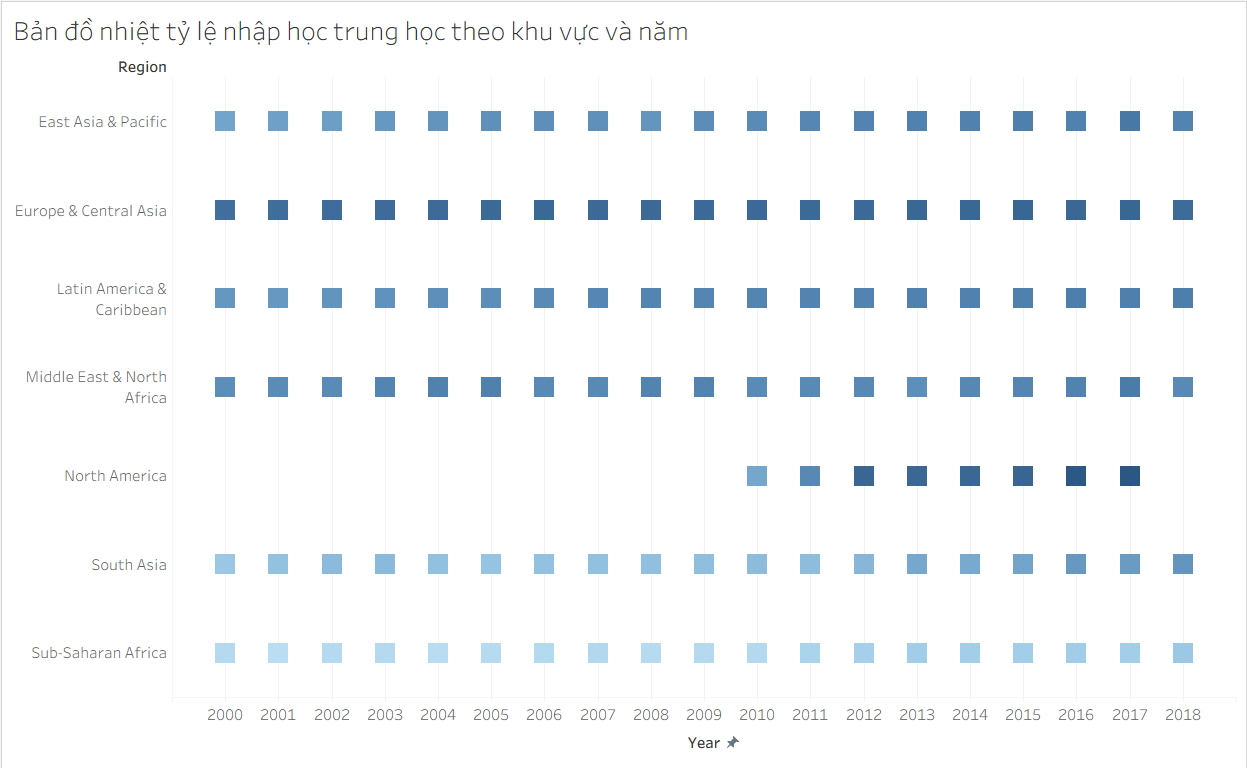
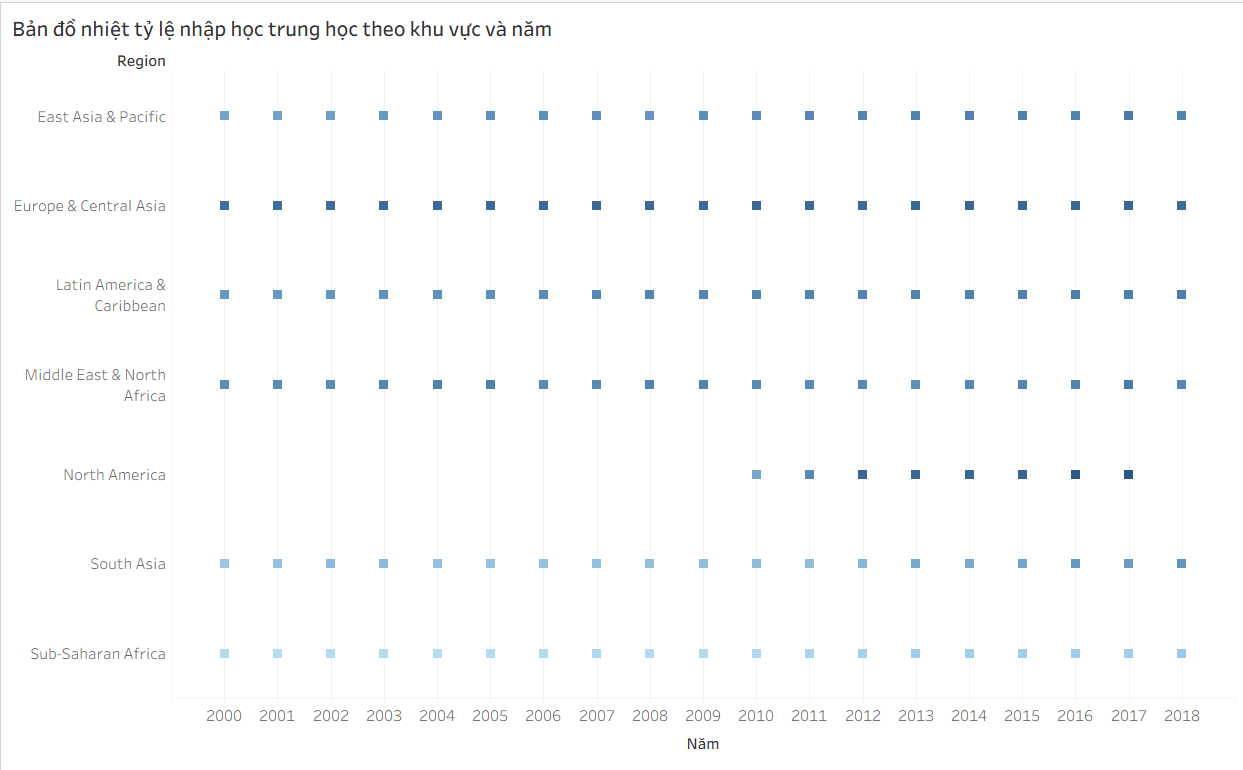
complete 4 parts and prepare to performs dashboard screenshot in report

diff --git a/report/sections/06_phan_tich_moi_truong.tex b/report/sections/06_phan_tich_moi_truong.tex
@@ -8,7 +8,7 @@ Phần phân tích môi trường và biến đổi khí hậu đóng vai trò k
 
 Phần phân tích môi trường tập trung vào bốn câu hỏi chính:
 \begin{enumerate}
-    \item Xu hướng tổng lượng phát thải CO\textsubscript{2} toàn cầu thay đổi ra sao theo thời gian? Đóng góp của các vùng địa lý thay đổi như thế nào trong giai đoạn 2000--2020?
+    \item Xu hướng tổng lượng phát thải CO\textsubscript{2} toàn cầu thay đổi ra sao theo thời gian? Đóng góp của các vùng địa lý thay đổi như thế nào trong giai đoạn 2000--2023?
     \item Mức phát thải CO\textsubscript{2} bình quân đầu người phân bố thế nào trên bản đồ địa lý? Sự phân hóa này phản ánh bất bình đẳng phát triển ra sao?
     \item Tỷ trọng tiêu thụ năng lượng tái tạo thay đổi thế nào giữa các khu vực địa lý qua hai mốc thời gian 2000 và 2021?
     \item Xu hướng biến động diện tích rừng phản ánh áp lực phát triển lên tài nguyên tự nhiên ở các khu vực và quốc gia ra sao từ 2000 đến 2023?
@@ -54,28 +54,28 @@ Dữ liệu môi trường được lọc từ file gốc \texttt{WDIEXCEL.xlsx}
 \textbf{Loại biểu đồ:} Biểu đồ miền chồng (stacked area chart).\\
 \textbf{Lý do chọn:} Biểu đồ miền chồng rất thích hợp để thể hiện sự thay đổi của một đại lượng tổng (tổng phát thải CO\textsubscript{2} toàn cầu) theo thời gian, đồng thời mô tả rõ cấu trúc đóng góp của các thực thể cấu thành (ở đây là các khu vực địa lý) trên cùng một trục trực quan.
 
-\reportfigure{images/environment/environment_co2_trend.png}{Xu hướng tổng phát thải CO\textsubscript{2} toàn cầu phân rã theo 7 khu vực địa lý, giai đoạn 2000--2020 (đơn vị: triệu tấn CO\textsubscript{2} tương đương - Mt CO\textsubscript{2}e).}{fig:env-co2-trend}
+\reportfigure{images/environment/co2_trend_area_chart.png}{Xu hướng tổng phát thải CO\textsubscript{2} theo khu vực, giai đoạn 2000--2023. Trục tung biểu diễn lượng phát thải theo Mt CO\textsubscript{2}e; các lớp màu chồng lên nhau thể hiện đóng góp tương đối của từng khu vực trong tổng phát thải.}{fig:env-co2-trend}
 
 \textbf{Nhận xét:}
 \begin{itemize}
-    \item \textbf{Xu hướng tăng toàn cầu:} Tổng phát thải CO\textsubscript{2} toàn cầu tăng liên tục trong giai đoạn 2000--2019. Năm 2020 ghi nhận sự sụt giảm nhẹ (khoảng 4--5\% ở nhiều vùng) do tác động của phong tỏa diện rộng trong đại dịch COVID-19 làm ngưng trệ các hoạt động giao thông và sản xuất công nghiệp toàn cầu.
-    \item \textbf{Sự bùng nổ của East Asia \& Pacific:} Khu vực Đông Á \& Thái Bình Dương có lượng phát thải tăng vọt đáng kinh ngạc, từ \textbf{6.681 Mt CO\textsubscript{2}e} năm 2000 lên \textbf{12.746 Mt CO\textsubscript{2}e} năm 2010, và đạt \textbf{15.959 Mt CO\textsubscript{2}e} năm 2020 (tăng gấp 2,4 lần). Sự bùng nổ này chủ yếu được thúc đẩy bởi sự trỗi dậy của các nền kinh tế đang phát triển nhanh, dẫn đầu là Trung Quốc với cơ cấu năng lượng phụ thuộc nhiều vào than đá.
-    \item \textbf{Sự suy giảm ở các khu vực phát triển:} Trái lại, phát thải ở các nước phát triển có xu hướng đạt đỉnh và giảm dần. Bắc Mỹ (\textbf{North America}) giảm từ \textbf{6.472 Mt CO\textsubscript{2}e} (2000) xuống còn \textbf{5.015 Mt CO\textsubscript{2}e} (2020) (giảm 22,5\%). Tương tự, Châu Âu \& Trung Á (\textbf{Europe \& Central Asia}) giảm từ \textbf{6.906 Mt CO\textsubscript{2}e} xuống còn \textbf{6.047 Mt CO\textsubscript{2}e}. Sự sụt giảm này phản ánh nỗ lực chuyển dịch cơ cấu kinh tế sang dịch vụ, sử dụng năng lượng hiệu quả hơn và áp dụng các chính sách cam kết giảm phát thải mạnh mẽ.
-    \item \textbf{Sự gia tăng ở các vùng đang phát triển khác:} Nam Á (\textbf{South Asia}) tăng hơn gấp đôi từ \textbf{1.039 Mt CO\textsubscript{2}e} lên \textbf{2.502 Mt CO\textsubscript{2}e}, cho thấy quá trình công nghiệp hóa và đô thị hóa đang làm gia tăng nhanh chóng nhu cầu sử dụng năng lượng hóa thạch tại đây.
+    \item \textbf{Tổng phát thải tăng rõ rệt:} Dựa trên trục tung của biểu đồ, tổng phát thải tăng từ khoảng 24--25K Mt CO\textsubscript{2}e năm 2000 lên khoảng 37--38K Mt CO\textsubscript{2}e năm 2023. Đường bao phía trên của biểu đồ đi lên gần như liên tục, cho thấy áp lực phát thải toàn cầu chưa có dấu hiệu đảo chiều bền vững.
+    \item \textbf{Điểm giảm tạm thời:} Trên hình có một nhịp giảm rõ ở năm 2020, khi tổng phát thải lùi từ khoảng trên 36K xuống gần 35K Mt CO\textsubscript{2}e. Tuy nhiên, từ năm 2021 đến 2023, diện tích miền lại mở rộng nhanh, cho thấy mức phát thải phục hồi sau cú sốc ngắn hạn.
+    \item \textbf{Đóng góp tăng mạnh nhất nằm ở lớp màu xanh phía trên:} Lớp màu xanh trên cùng mở rộng rất mạnh từ sau năm 2003 và chiếm phần lớn mức tăng thêm của toàn biểu đồ. Vì hình chụp không hiển thị legend khu vực, báo cáo chỉ diễn giải theo phần diện tích màu quan sát được thay vì gán chắc chắn cho một khu vực cụ thể.
+    \item \textbf{Các lớp phía dưới tăng chậm hơn:} Một số lớp màu ở đáy biểu đồ chỉ dày lên nhẹ hoặc gần như ổn định. Điều này cho thấy tăng trưởng phát thải không phân bổ đều giữa các khu vực; một vài nhóm khu vực lớn đang quyết định phần lớn biến động tổng phát thải.
 \end{itemize}
 
 \subsubsection{Biểu đồ 2 --- Bản đồ phát thải CO\textsubscript{2} bình quân đầu người (Choropleth Map)}
 
 \textbf{Loại biểu đồ:} Bản đồ phân bố (choropleth map).\\
-\textbf{Lý do chọn:} Bản đồ phân bố địa lý giúp nhận diện trực quan mức độ tập trung phát thải và bất bình đẳng dấu chân carbon giữa các quốc gia. Sử dụng thang màu chuyển sắc từ lam (phát thải thấp) sang cam/đỏ (phát thải cao) giúp người xem nhận biết ngay lập tức các vùng có mức phát thải bình quân đầu người cao bất thường.
+\textbf{Lý do chọn:} Bản đồ phân bố địa lý giúp nhận diện trực quan mức độ tập trung phát thải và bất bình đẳng dấu chân carbon giữa các quốc gia. Thang màu xanh đậm--nhạt trên bản đồ hỗ trợ so sánh tương đối giữa các vùng địa lý, dù không cung cấp nhãn số trực tiếp cho từng quốc gia trong hình chụp.
 
-\reportfigure{images/environment/environment_co2_map.png}{Bản đồ phát thải CO\textsubscript{2} bình quân đầu người của các quốc gia năm 2020 (tấn CO\textsubscript{2}e/người).}{fig:env-co2-map}
+\reportfigure{images/environment/co2_per_capita_map.png}{Bản đồ phát thải CO\textsubscript{2} bình quân đầu người theo quốc gia. Màu xanh đậm hơn thể hiện mức phát thải bình quân đầu người cao hơn; góc phải dưới có ghi chú \textit{2 unknown} cho biết còn hai bản ghi chưa khớp được với bản đồ.}{fig:env-co2-map}
 
 \textbf{Nhận xét:}
 \begin{itemize}
-    \item \textbf{Phân hóa rõ rệt:} Bản đồ bộc lộ sự bất bình đẳng khí hậu sâu sắc. Các quốc gia phát triển ở Bắc Mỹ (\textbf{North America} có mức trung bình \textbf{10,4 t/người} năm 2020) và các quốc gia giàu tài nguyên dầu mỏ ở Trung Đông và Bắc Phi (\textbf{MENA} trung bình \textbf{8,8 t/người} năm 2020) là những vùng có màu sắc đậm nhất. Ví dụ, Hoa Kỳ phát thải tới \textbf{13,47 t/người} năm 2020.
-    \item \textbf{Dấu chân carbon thấp ở nhóm thu nhập thấp:} Ngược lại, các quốc gia ở Châu Phi hạ Sahara (\textbf{Sub-Saharan Africa} trung bình ổn định ở mức chỉ \textbf{0,93 t/người}) và Nam Á (\textbf{South Asia} trung bình \textbf{1,36 t/người} năm 2020) có màu lam rất nhạt, phản ánh mức tiêu thụ năng lượng và quy mô công nghiệp rất thấp trên đầu người.
-    \item \textbf{Xu hướng các quốc gia cụ thể:} Hoa Kỳ dù vẫn ở mức rất cao nhưng đã giảm đáng kể so với mức cực thịnh \textbf{21,01 t/người} năm 2000. Ngược lại, Việt Nam tăng nhanh từ \textbf{0,73 t/người} (2000) lên \textbf{3,55 t/người} (2020), phản ánh rõ quá trình công nghiệp hóa chuyển đổi từ nông nghiệp truyền thống sang sản xuất công nghiệp nặng và phát triển hạ tầng năng lượng.
+    \item \textbf{Phân bố phát thải không đồng đều theo không gian:} Trên bản đồ, Bắc Mỹ, một phần châu Âu, Nga, Australia và một số khu vực ở Trung Đông có sắc xanh đậm hơn nhiều vùng khác. Điều này cho thấy mức phát thải bình quân đầu người ở các khu vực công nghiệp hóa hoặc phụ thuộc nhiều vào năng lượng hóa thạch có xu hướng cao hơn.
+    \item \textbf{Nhiều khu vực đang phát triển có màu nhạt hơn:} Phần lớn châu Phi, Nam Á và một số nước Đông Nam Á có màu xanh nhạt hơn trên hình. Do bản đồ không hiển thị nhãn số, nhận xét này nên được hiểu là so sánh tương đối bằng màu sắc, không phải kết luận thứ hạng tuyệt đối của từng quốc gia.
+    \item \textbf{Cần lưu ý dữ liệu không khớp bản đồ:} Ghi chú \textit{2 unknown} ở góc phải dưới cho thấy còn hai bản ghi chưa được Tableau nhận diện địa lý. Vì vậy, bản đồ phù hợp nhất để nhìn xu hướng không gian tổng quát, còn các kết luận định lượng chi tiết cần tránh đưa vào phần nhận xét hình.
 \end{itemize}
 
 \subsubsection{Biểu đồ 3 --- Tiêu thụ năng lượng tái tạo theo khu vực (Grouped Bar Chart)}
@@ -83,13 +83,13 @@ Dữ liệu môi trường được lọc từ file gốc \texttt{WDIEXCEL.xlsx}
 \textbf{Loại biểu đồ:} Biểu đồ cột nhóm (grouped bar chart).\\
 \textbf{Lý do chọn:} Thích hợp để so sánh giá trị định lượng giữa các đối tượng phân loại (các khu vực địa lý) và đồng thời theo dõi sự thay đổi của từng đối tượng qua hai thời điểm cụ thể (năm 2000 và năm 2021).
 
-\reportfigure{images/environment/environment_renewable_bar.png}{So sánh tỷ lệ tiêu thụ năng lượng tái tạo trung bình theo khu vực địa lý giữa hai năm 2000 và 2021 (đơn vị: \% tổng tiêu thụ năng lượng cuối cùng).}{fig:env-renew-bar}
+\reportfigure{images/environment/renewable_energy_bar_chart.png}{So sánh tỷ lệ tiêu thụ năng lượng tái tạo trung bình theo khu vực địa lý giữa hai năm 2000 và 2021 (đơn vị: \% tổng tiêu thụ năng lượng cuối cùng). Các giá trị phần trăm được hiển thị trực tiếp trên từng cột trong biểu đồ.}{fig:env-renew-bar}
 
 \textbf{Nhận xét:}
 \begin{itemize}
-    \item \textbf{Hiện trạng đặc thù của Châu Phi:} \textbf{Sub-Saharan Africa} luôn dẫn đầu về tỷ lệ năng lượng tái tạo (\textbf{71,2\%} năm 2000 và \textbf{61,4\%} năm 2021). Tuy nhiên, giá trị này chủ yếu phản ánh việc sử dụng sinh khối truyền thống (đốt gỗ, chất thải nông nghiệp để đun nấu) ở nông thôn thiếu điện, chứ không phải các nguồn điện sạch hiện đại. Sự sụt giảm của tỷ lệ này (giảm 9,8\%) phản ánh quá trình đô thị hóa và thay thế nhiên liệu truyền thống bằng điện lưới hóa thạch hoặc khí hóa lỏng.
-    \item \textbf{Nỗ lực chuyển dịch xanh của Châu Âu:} Châu Âu \& Trung Á (\textbf{Europe \& Central Asia}) là khu vực điển hình ghi nhận mức tăng đáng kể từ \textbf{16,4\%} (2000) lên \textbf{23,3\%} (2021), thể hiện rõ kết quả của các chính sách chuyển dịch xanh mạnh mẽ như tại Đức (tăng từ \textbf{3,7\%} lên \textbf{18,5\%} trong cùng giai đoạn).
-    \item \textbf{Áp lực tăng trưởng đè nặng lên năng lượng sạch:} Khu vực Đông Á \& Thái Bình Dương (\textbf{East Asia \& Pacific}) giảm từ \textbf{24,1\%} xuống còn \textbf{17,8\%}, cho thấy tốc độ tăng trưởng kinh tế nhanh đã làm gia tăng nhu cầu năng lượng hóa thạch vượt trội so với tốc độ xây dựng các nguồn năng lượng tái tạo mới.
+    \item \textbf{Hai khu vực có tỷ trọng cao nhất đều giảm:} Sub-Saharan Africa giảm từ 71,2\% năm 2000 xuống 61,4\% năm 2021; South Asia giảm mạnh hơn, từ 58,9\% xuống 44,3\%. Dù vẫn thuộc nhóm cao, chiều giảm cho thấy tỷ trọng năng lượng tái tạo bị thu hẹp tương đối so với tổng tiêu thụ năng lượng.
+    \item \textbf{Một số khu vực tăng tỷ trọng năng lượng tái tạo:} Europe \& Central Asia tăng từ 16,4\% lên 23,3\%; North America tăng từ 8,7\% lên 11,9\%. Đây là hai nhóm thể hiện xu hướng cải thiện rõ nhất trên biểu đồ.
+    \item \textbf{Các khu vực còn lại biến động trái chiều:} Latin America \& Caribbean giảm nhẹ từ 23,4\% xuống 20,0\%; East Asia \& Pacific giảm từ 24,1\% xuống 17,8\%; Middle East \& North Africa giảm nhẹ từ 8,8\% xuống 7,7\%. Nhìn chung, biểu đồ cho thấy chuyển dịch năng lượng xanh chưa đồng đều giữa các khu vực.
 \end{itemize}
 
 \subsubsection{Biểu đồ 4 --- Biến động diện tích rừng của các quốc gia (Heatmap)}
@@ -97,22 +97,24 @@ Dữ liệu môi trường được lọc từ file gốc \texttt{WDIEXCEL.xlsx}
 \textbf{Loại biểu đồ:} Bản đồ nhiệt dạng ma trận (heatmap).\\
 \textbf{Lý do chọn:} Heatmap giúp hiển thị ma trận hai chiều (quốc gia $\times$ năm) một cách trực quan, sử dụng mức độ đậm nhạt của màu sắc (ở đây là sắc xanh lá cây) để phản ánh tỷ lệ phủ xanh, từ đó dễ dàng nhận diện xu hướng suy giảm diện tích rừng (màu xanh nhạt dần) hoặc phục hồi rừng (màu xanh đậm lên) qua từng năm.
 
-\reportfigure{images/environment/environment_forest_heatmap.png}{Heatmap thể hiện biến động tỷ lệ diện tích rừng (\%) của một số quốc gia đại diện trong giai đoạn 2000--2023. Mỗi dòng đại diện cho một quốc gia; màu xanh đậm biểu thị tỷ lệ che phủ cao.}{fig:env-forest-heatmap}
+\reportfigure{images/environment/forest_area_heatmap.png}{Heatmap thể hiện tỷ lệ diện tích rừng của 20 quốc gia có biến động lớn trong giai đoạn 2000--2023. Ảnh chụp đang hiển thị phần năm 2000--2018; thanh cuộn ngang phía dưới cho thấy còn các năm tiếp theo ở phần bên phải của worksheet.}{fig:env-forest-heatmap}
 
 \textbf{Nhận xét:}
 \begin{itemize}
-    \item \textbf{Nạn phá rừng nghiêm trọng ở Nam Mỹ:} Khu vực Mỹ Latinh \& Caribbean (\textbf{Latin America \& Caribbean}) có độ phủ rừng trung bình giảm mạnh từ \textbf{44,8\%} (2000) xuống còn \textbf{40,7\%} (2023). Minh chứng rõ nhất là Brazil (quốc gia sở hữu rừng Amazon) với diện tích rừng giảm liên tục từ \textbf{65,9\%} xuống còn \textbf{59,4\%}, phản ánh tình trạng phá rừng để lấy đất làm nông nghiệp, chăn nuôi gia súc và khai khoáng quy mô lớn.
-    \item \textbf{Tín hiệu phục hồi tích cực ở Đông Á:} Trái lại, một số quốc gia ghi nhận nỗ lực phục hồi rừng ấn tượng. Trung Quốc tăng từ \textbf{18,9\%} (2000) lên \textbf{23,4\%} (2023), và Việt Nam tăng từ \textbf{37,9\%} lên \textbf{46,7\%} (trong giai đoạn 2000--2020). Thành quả này đạt được nhờ các chương trình trồng rừng phòng hộ quy mô lớn và chính sách bảo vệ rừng tự nhiên nghiêm ngặt của chính phủ.
-    \item \textbf{Sự ổn định ở các nước ôn đới:} Các nước như Hoa Kỳ (\textbf{33,1\%} đến \textbf{33,9\%}) và Đức (\textbf{32,5\%} đến \textbf{32,7\%}) duy trì độ che phủ rừng hầu như không đổi trong suốt hơn hai thập kỷ, phản ánh sự phát triển của hệ thống quản lý rừng bền vững và chính trị ổn định.
+    \item \textbf{Biểu đồ cho thấy xu hướng bằng sắc độ, không bằng nhãn số:} Heatmap không hiển thị giá trị phần trăm trực tiếp trong từng ô, vì vậy phần nhận xét chỉ nên dựa trên mức xanh đậm--nhạt và sự thay đổi màu qua các năm.
+    \item \textbf{Một số quốc gia duy trì tỷ lệ rừng cao:} Các dòng ở phía trên như Northern..., Belize, Congo, Fiji hay Sao Tome... có sắc xanh khá đậm trong nhiều năm, cho thấy nhóm này có độ che phủ rừng tương đối cao so với các dòng phía dưới.
+    \item \textbf{Có cả xu hướng suy giảm và phục hồi:} Một số dòng chuyển nhạt dần về phía bên phải, gợi ý tỷ lệ rừng giảm theo thời gian; ngược lại, các dòng như Viet Nam hoặc Guam có xu hướng xanh đậm hơn ở các năm sau, gợi ý khả năng phục hồi hoặc tăng tỷ lệ che phủ rừng.
+    \item \textbf{Phạm vi biểu đồ là nhóm biến động lớn:} Tên biểu đồ nêu rõ đây là top 20 quốc gia có thay đổi lớn nhất, không phải toàn bộ thế giới. Vì vậy, biểu đồ phù hợp để nhận diện các trường hợp biến động nổi bật, hơn là đại diện cho xu hướng trung bình toàn cầu.
 \end{itemize}
 
 \subsection{Thảo luận}
 
 Tổng hợp bốn biểu đồ môi trường cho thấy một bức tranh đa chiều đầy thách thức về tính bền vững toàn cầu:
 \begin{itemize}
-    \item \textbf{Sự dịch chuyển địa lý của phát thải:} Sự gia tăng nhanh chóng lượng phát thải ở Đông Á và Nam Á đặt ra thách thức lớn cho việc kiểm soát biến đổi khí hậu toàn cầu. Dù các nước phát triển đã bắt đầu giảm phát thải tuyệt đối nhờ chuyển dịch sang dịch vụ và năng lượng sạch, sự gia tăng phát thải từ quá trình công nghiệp hóa của các nước đang phát triển đã bù trừ phần giảm này, khiến tổng phát thải toàn cầu tiếp tục tăng.
-    \item \textbf{Mâu thuẫn giữa nhu cầu và chuyển dịch năng lượng:} Năng lượng tái tạo đang có xu hướng tăng dần tại các quốc gia thu nhập cao nhờ chính sách chuyển dịch xanh, tuy nhiên tốc độ tăng vẫn chưa đủ nhanh để thay thế hoàn toàn năng lượng hóa thạch trong bối cảnh nhu cầu tiêu dùng gia tăng. Tại các nước đang phát triển, tỷ trọng năng lượng tái tạo giảm do tốc độ mở rộng nguồn điện than/khí hóa thạch để đáp ứng nhu cầu tăng trưởng kinh tế nhanh hơn tốc độ đầu tư năng lượng sạch.
-    \item \textbf{Sự suy giảm tài nguyên sinh thái:} Nạn phá rừng ở Mỹ Latinh và Châu Phi hạ Sahara làm suy giảm khả năng hấp thụ carbon tự nhiên của Trái Đất, gián tiếp làm trầm trọng thêm vấn đề biến đổi khí hậu. Sự phục hồi diện tích rừng ở một số nước như Việt Nam hay Trung Quốc chứng minh rằng chính sách quản lý đúng đắn có thể đảo ngược xu hướng suy thoái môi trường.
+    \item \textbf{Phát thải toàn cầu vẫn đi lên:} Biểu đồ miền chồng cho thấy tổng phát thải CO\textsubscript{2} tăng mạnh từ khoảng 24--25K lên 37--38K Mt CO\textsubscript{2}e. Nhịp giảm năm 2020 chỉ là điểm gãy ngắn hạn, sau đó xu hướng tăng quay trở lại.
+    \item \textbf{Dấu chân carbon khác biệt rõ theo không gian:} Bản đồ CO\textsubscript{2} bình quân đầu người thể hiện sự phân hóa màu sắc giữa các vùng công nghiệp hóa và nhiều khu vực đang phát triển. Tuy nhiên, do hình không hiển thị nhãn số, báo cáo chỉ rút ra nhận xét không gian tổng quát thay vì khẳng định giá trị cụ thể của từng nước.
+    \item \textbf{Chuyển dịch năng lượng chưa đồng đều:} Biểu đồ năng lượng tái tạo cho thấy Europe \& Central Asia và North America tăng tỷ trọng, trong khi Sub-Saharan Africa, South Asia, East Asia \& Pacific, Latin America \& Caribbean và Middle East \& North Africa giảm theo hai mốc 2000--2021.
+    \item \textbf{Tài nguyên rừng biến động khác nhau theo quốc gia:} Heatmap cho thấy một số quốc gia giữ màu xanh đậm ổn định, một số nhạt dần và một số đậm lên ở giai đoạn sau. Điều này phản ánh áp lực môi trường không diễn ra theo một chiều duy nhất mà phụ thuộc vào bối cảnh quản lý tài nguyên của từng quốc gia.
 \end{itemize}
 
 Mối liên hệ giữa phần môi trường với kinh tế và xã hội là rất mật thiết: phát triển kinh tế nhanh chóng giúp nâng cao GDP và tuổi thọ trung bình, nhưng nếu không kiểm soát tốt sẽ đi kèm với sự bùng nổ carbon và suy thoái tài nguyên rừng. Điều này nhấn mạnh tầm quan trọng của việc theo đuổi các mục tiêu phát triển bền vững (SDG) một cách đồng bộ.

diff --git a/report/sections/05_phan_tich_suc_khoe.tex b/report/sections/05_phan_tich_suc_khoe.tex
@@ -82,9 +82,9 @@ Indicator & Quốc gia giữ & Quốc gia loại (rỗng) & Quốc gia loại (g
 
 \textbf{Nhận xét:}
 \begin{itemize}
-    \item \textbf{Xu hướng cải thiện dài hạn:} Hầu hết các quốc gia đại diện đều tăng tuổi thọ trong giai đoạn 2000--2019. Nhật Bản duy trì nhóm cao nhất, tăng từ khoảng 81,1 năm lên 84,4 năm. Trung Quốc tăng từ 72,3 lên 77,9 năm, Ấn Độ tăng từ 62,8 lên 70,8 năm, và Việt Nam tăng từ 72,8 lên 74,2 năm. Điều này cho thấy kết quả tích lũy của cải thiện y tế, dinh dưỡng, thu nhập và điều kiện sống.
-    \item \textbf{COVID-19 tạo điểm gãy rõ rệt:} Giai đoạn 2020--2021 xuất hiện sự suy giảm tuổi thọ ở nhiều quốc gia. Hoa Kỳ giảm từ 78,8 năm (2019) xuống 76,3 năm (2021), Brazil giảm từ 75,8 xuống 73,0 năm, và Ấn Độ giảm từ 70,8 xuống 67,3 năm. Đây là dấu hiệu trực quan cho thấy đại dịch tác động trực tiếp đến outcome sức khỏe, kể cả ở các nền kinh tế có quy mô lớn.
-    \item \textbf{Khoảng cách sức khỏe vẫn lớn:} Nigeria tăng từ 47,1 năm lên 54,5 năm trong giai đoạn 2000--2023, nhưng vẫn thấp hơn rất xa so với nhóm Nhật Bản, Đức hoặc Hoa Kỳ. Chênh lệch giữa nhóm tuổi thọ cao nhất và thấp nhất trong mẫu vẫn xấp xỉ 30 năm, phản ánh bất bình đẳng sức khỏe toàn cầu chưa được thu hẹp đáng kể.
+    \item \textbf{Xu hướng cải thiện dài hạn:} Hầu hết các đường đều tăng từ năm 2000 đến trước năm 2020. Nhóm đường cao nhất nằm quanh 80--84 năm, nhóm trung gian tăng dần từ khoảng 63--73 năm lên vùng 72--78 năm, còn đường thấp nhất tăng từ khoảng 47 năm lên gần 55 năm.
+    \item \textbf{Điểm gãy rõ trên hình:} Một số đường giảm xuống ở năm 2021 trước khi phục hồi sau đó. Nhịp giảm thấy rõ nhất ở các đường đang nằm trong vùng 70--80 năm, cho thấy cú sốc sức khỏe giai đoạn đại dịch làm gián đoạn xu hướng tăng đều trước đó.
+    \item \textbf{Khoảng cách sức khỏe vẫn lớn:} Đến năm 2023, đường cao nhất vẫn ở trên 80 năm, trong khi đường thấp nhất chỉ quanh 54--55 năm. Chênh lệch xấp xỉ 30 năm trên biểu đồ cho thấy bất bình đẳng tuổi thọ giữa các nhóm quốc gia vẫn rất đáng kể.
 \end{itemize}
 
 % ======================================================================
@@ -97,9 +97,9 @@ Indicator & Quốc gia giữ & Quốc gia loại (rỗng) & Quốc gia loại (g
 
 \textbf{Nhận xét:}
 \begin{itemize}
-    \item \textbf{Sub-Saharan Africa là khu vực rủi ro cao nhất:} Năm 2022, khu vực này có tỷ lệ tử vong trẻ em dưới 5 tuổi trung bình khoảng 67,45 trên 1.000 trẻ sinh sống, cao vượt trội so với tất cả khu vực còn lại. Đây là dấu hiệu cho thấy các thách thức về chăm sóc y tế cơ bản, dinh dưỡng, nước sạch, vệ sinh và khả năng tiếp cận dịch vụ y tế vẫn còn nghiêm trọng.
-    \item \textbf{Nhóm trung bình gồm Nam Á, MENA và Đông Á--Thái Bình Dương:} South Asia đạt khoảng 19,77; Middle East \& North Africa đạt khoảng 19,62; East Asia \& Pacific đạt khoảng 19,53. Ba khu vực này có mức gần nhau, thấp hơn rất nhiều so với Sub-Saharan Africa nhưng vẫn cao hơn đáng kể so với châu Âu và Bắc Mỹ.
-    \item \textbf{Nhóm có hệ thống chăm sóc trẻ em tốt hơn:} Europe \& Central Asia và North America có tỷ lệ thấp nhất, lần lượt khoảng 6,69 và 5,90 trên 1.000. Mức này phản ánh hệ thống chăm sóc bà mẹ--trẻ em, tiêm chủng và y tế dự phòng tương đối hoàn thiện.
+    \item \textbf{Sub-Saharan Africa là khu vực rủi ro cao nhất:} Thanh của khu vực này dài vượt trội, xấp xỉ 60--70 ca trên 1.000 trẻ sinh sống theo trục hoành. Mức này cao hơn nhiều lần so với tất cả khu vực còn lại, cho thấy gánh nặng tử vong trẻ em tập trung rất mạnh ở khu vực này.
+    \item \textbf{Nhóm trung bình:} South Asia, Middle East \& North Africa và East Asia \& Pacific có chiều dài thanh khá gần nhau, đều quanh vùng 20 ca trên 1.000. Latin America \& Caribbean thấp hơn một chút, khoảng 15--17 ca.
+    \item \textbf{Nhóm thấp nhất là Europe \& Central Asia và North America:} Hai thanh cuối ngắn nhất, chỉ khoảng 6--7 ca trên 1.000. Khoảng cách giữa nhóm này và Sub-Saharan Africa rất lớn, phản ánh sự khác biệt rõ về điều kiện chăm sóc sức khỏe trẻ em.
 \end{itemize}
 
 % ======================================================================
@@ -112,10 +112,10 @@ Indicator & Quốc gia giữ & Quốc gia loại (rỗng) & Quốc gia loại (g
 
 \textbf{Nhận xét:}
 \begin{itemize}
-    \item \textbf{Tương quan tuyến tính yếu:} Trong mẫu năm 2022, 192 quốc gia có đồng thời dữ liệu chi tiêu y tế, tuổi thọ và dân số. Hệ số tương quan Pearson giữa chi tiêu y tế theo \% GDP và tuổi thọ chỉ khoảng $r \approx 0,15$, cho thấy mối quan hệ tuyến tính khá yếu. Nói cách khác, chi tiêu y tế cao hơn không tự động chuyển hóa thành tuổi thọ cao hơn.
-    \item \textbf{Hiệu quả chi tiêu khác nhau giữa các quốc gia:} Biểu đồ cho thấy nhiều quốc gia có tuổi thọ cao nằm trong vùng chi tiêu y tế khoảng 5--12\% GDP, trong khi một số quốc gia chi tiêu rất cao nhưng tuổi thọ không vượt trội tương ứng. Điều này gợi ý rằng cơ cấu chi tiêu, hiệu quả quản trị hệ thống y tế, y tế dự phòng, bất bình đẳng tiếp cận dịch vụ và các yếu tố xã hội khác có vai trò quan trọng không kém quy mô chi tiêu.
-    \item \textbf{Cụm tuổi thọ thấp tập trung ở nhóm khó khăn:} Các điểm có tuổi thọ thấp hơn 65 năm chủ yếu nằm ở nhóm chi tiêu y tế thấp hoặc trung bình và tập trung nhiều ở các khu vực đang phát triển. Trường hợp Central African Republic là một outlier cực đoan với tuổi thọ năm 2022 chỉ khoảng 18,82 năm, phản ánh ảnh hưởng rất mạnh của xung đột và khủng hoảng nhân đạo lên kết quả sức khỏe.
-    \item \textbf{Giá trị null cần được lưu ý:} Hình thể hiện còn 25 giá trị null ở phần dữ liệu liên quan, cho thấy không phải mọi quốc gia đều có đủ dữ liệu chi tiêu y tế trong năm 2022. Vì vậy, nhận xét từ scatter plot nên được hiểu là mô tả trên mẫu có dữ liệu, không phải kết luận tuyệt đối cho toàn bộ thế giới.
+    \item \textbf{Mối quan hệ không tuyến tính rõ ràng:} Các điểm tập trung dày nhất trong vùng chi tiêu khoảng 3--12\% GDP và tuổi thọ khoảng 65--85 năm. Không có một đường xu hướng tăng thật rõ, nên không thể kết luận từ hình rằng chi tiêu y tế cao hơn luôn đi kèm tuổi thọ cao hơn.
+    \item \textbf{Nhiều quốc gia đạt tuổi thọ cao ở mức chi tiêu trung bình:} Vùng 5--10\% GDP có nhiều điểm nằm trên 75 năm, cho thấy hiệu quả sức khỏe không chỉ phụ thuộc vào tỷ trọng chi tiêu mà còn liên quan đến cách tổ chức hệ thống y tế và điều kiện xã hội.
+    \item \textbf{Có các điểm ngoại lệ đáng chú ý:} Một số điểm ở bên phải biểu đồ có chi tiêu trên 16\% GDP nhưng tuổi thọ chỉ quanh 65--78 năm. Ngoài ra, có một điểm rất thấp gần 19 năm tuổi thọ ở khoảng 10\% GDP, làm nổi bật khả năng tồn tại các trường hợp bất thường hoặc chịu tác động khủng hoảng nghiêm trọng.
+    \item \textbf{Giá trị null cần được lưu ý:} Hình thể hiện 25 nulls ở góc dưới bên phải, cho thấy không phải mọi bản ghi đều có đủ dữ liệu để vẽ. Vì vậy, nhận xét từ scatter plot nên được hiểu là mô tả trên phần dữ liệu hiển thị.
 \end{itemize}
 
 % ======================================================================
@@ -128,10 +128,10 @@ Indicator & Quốc gia giữ & Quốc gia loại (rỗng) & Quốc gia loại (g
 
 \textbf{Nhận xét:}
 \begin{itemize}
-    \item \textbf{Khu vực phát triển có tuổi thọ cao và ổn định hơn:} North America có trung vị khoảng 81,09 năm; Europe \& Central Asia có trung vị khoảng 78,85 năm. Phân bố của hai khu vực này tương đối cao, cho thấy kết quả sức khỏe nhìn chung ổn định hơn so với các khu vực đang phát triển.
-    \item \textbf{Sub-Saharan Africa có phân bố thấp và rộng:} Trung vị tuổi thọ của khu vực này khoảng 63,58 năm, thấp nhất trong các khu vực lớn. Độ phân tán rộng cho thấy bất bình đẳng sức khỏe đáng kể giữa các quốc gia trong cùng khu vực.
-    \item \textbf{Outlier cực đoan làm rõ rủi ro khủng hoảng:} Điểm rất thấp của Central African Republic kéo phân bố Sub-Saharan Africa xuống mạnh. Đây là ví dụ cho thấy tuổi thọ không chỉ phản ánh y tế, mà còn chịu tác động bởi chiến tranh, bất ổn chính trị, nghèo đói, dịch bệnh và năng lực nhà nước.
-    \item \textbf{Một số khu vực nằm ở nhóm trung gian:} Latin America \& Caribbean, Middle East \& North Africa, South Asia và East Asia \& Pacific có trung vị nằm giữa nhóm phát triển và Sub-Saharan Africa. Điều này phản ánh mức phát triển sức khỏe không đồng nhất: một số quốc gia đã đạt kết quả rất tốt, trong khi một số quốc gia khác vẫn gặp hạn chế về tiếp cận dịch vụ và điều kiện sống.
+    \item \textbf{North America có phân bố cao và hẹp nhất:} Hộp của North America nằm chủ yếu quanh 80--82 năm và khá nhỏ, cho thấy tuổi thọ giữa các quốc gia trong nhóm này tương đối đồng đều.
+    \item \textbf{Europe \& Central Asia và East Asia \& Pacific có độ phân tán rộng hơn:} Hai nhóm này có nhiều điểm trải từ khoảng 60--85 năm, trong đó phần hộp nằm ở vùng 70--80 năm. Điều này cho thấy trong cùng khu vực vẫn có chênh lệch đáng kể giữa các quốc gia.
+    \item \textbf{Sub-Saharan Africa thấp nhất và phân tán mạnh:} Hộp của khu vực này nằm thấp hơn các nhóm khác, chủ yếu quanh 60--67 năm. Ngoài ra còn có một điểm ngoại lệ rất thấp gần 19 năm, làm kéo sự chú ý đến các rủi ro sức khỏe cực đoan.
+    \item \textbf{Các khu vực còn lại nằm ở nhóm trung gian:} Latin America \& Caribbean, Middle East \& North Africa và South Asia nằm giữa nhóm cao nhất và Sub-Saharan Africa. Nhìn từ biểu đồ, tuổi thọ toàn cầu không chỉ khác nhau giữa khu vực mà còn khác đáng kể ngay trong từng khu vực.
 \end{itemize}
 
 \subsection{Thảo luận}

diff --git a/report/sections/03_phan_tich_kinh_te.tex b/report/sections/03_phan_tich_kinh_te.tex
@@ -74,9 +74,9 @@ Indicator & Quốc gia giữ & Quốc gia loại (rỗng) & Quốc gia loại (g
 
 \textbf{Nhận xét:}
 \begin{itemize}
-    \item \textbf{Các quốc gia thu nhập cao:} Hoa Kỳ và Đức duy trì mức GDP bình quân đầu người vượt trội so với các nước còn lại. Hoa Kỳ tăng từ $\sim$36.330 USD (2000) lên $\sim$81.032 USD (2023), Đức tăng từ $\sim$23.926 USD lên $\sim$54.777 USD. Xu hướng tăng trưởng ổn định ngoại trừ các đợt suy thoái ngắn hạn vào năm 2008--2009 (khủng hoảng tài chính toàn cầu) và năm 2020 (đại dịch COVID-19).
-    \item \textbf{Các nền kinh tế đang phát triển và mới nổi:} Đạt mức tăng trưởng tương đối vượt bậc. Trung Quốc tăng mạnh mẽ từ 969 USD (2000) lên 12.951 USD (2023), tức gấp hơn 13 lần. Việt Nam tăng từ 404 USD lên 4.323 USD (gấp hơn 10 lần), phản ánh kết quả của quá trình đổi mới và hội nhập sâu rộng. Ấn Độ tăng từ 443 USD lên 2.530 USD. Brazil tăng từ 3.767 USD lên 10.378 USD (có giai đoạn biến động mạnh quanh năm 2011--2015 do khủng hoảng hàng hóa).
-    \item \textbf{Khoảng cách giàu nghèo:} Dù các nước đang phát triển có tốc độ tăng trưởng phần trăm rất cao, khoảng cách tuyệt đối về GDP bình quân đầu người giữa nhóm này và nhóm các nước phát triển (như Hoa Kỳ) vẫn tiếp tục nới rộng theo thời gian.
+    \item \textbf{Nhóm đường cao nhất tăng rất mạnh:} Dựa trên trục tung của biểu đồ, đường cao nhất tăng từ khoảng 36K USD năm 2000 lên trên 80K USD năm 2023. Đường cao thứ hai cũng tăng từ khoảng 24K USD lên gần 55K USD, dù có các nhịp giảm rõ quanh giai đoạn 2009, 2015 và 2020.
+    \item \textbf{Nhóm thu nhập trung bình tăng nhưng vẫn cách xa nhóm dẫn đầu:} Các đường ở giữa biểu đồ chủ yếu nằm dưới 15K USD vào cuối giai đoạn. Một đường tăng lên khoảng 13K USD năm 2023, trong khi các đường còn lại chỉ dao động quanh 1K--10K USD.
+    \item \textbf{Khoảng cách tuyệt đối vẫn mở rộng:} Dù hầu hết các đường đều đi lên, độ cao giữa nhóm dẫn đầu và nhóm thấp hơn ngày càng cách xa. Đây là điểm dễ nhận thấy trên hình: phần trên của biểu đồ tăng nhanh hơn phần dưới, làm khoảng cách mức sống tuyệt đối giữa các nhóm quốc gia vẫn rất lớn.
 \end{itemize}
 
 % ======================================================================
@@ -104,9 +104,9 @@ Indicator & Quốc gia giữ & Quốc gia loại (rỗng) & Quốc gia loại (g
 
 \textbf{Nhận xét:}
 \begin{itemize}
-    \item \textbf{Xu hướng tương quan nghịch:} Mối quan hệ giữa GDP bình quan đầu người và tỷ lệ nghèo (dưới 3 USD/ngày) có tương quan nghịch mạnh (hệ số Pearson $r \approx -0,62$ trên thang log10). Các quốc gia có GDP bình quân đầu người cao ($> 20.000$ USD) hầu như triệt tiêu hoàn toàn tỷ lệ nghèo ở ngưỡng này (đều đạt tỷ lệ nghèo $< 1\%$).
-    \item \textbf{Sự phân hóa ở nhóm thu nhập thấp:} Ở nhóm các quốc gia có thu nhập trung bình và thấp, tỷ lệ nghèo phân tán rất rộng (từ dưới 5\% đến hơn 50\% ở cùng một mức GDP), cho thấy tăng trưởng kinh tế là điều kiện cần nhưng chưa đủ để giảm nghèo --- hiệu quả giảm nghèo còn phụ thuộc vào chính sách phân phối thu nhập và an sinh xã hội.
-    \item \textbf{Thiên lệch mẫu dữ liệu:} Do Ngân hàng Thế giới không thu thập dữ liệu nghèo thường xuyên ở các nước phát triển và một số nước nghèo, mẫu scatter plot bị thu hẹp đáng kể còn \textbf{59 quốc gia}. Châu Âu đóng góp tới 33 quốc gia, trong khi Châu Phi cận Sahara chỉ có duy nhất 1 quốc gia có dữ liệu, tạo ra sự thiên lệch lớn cần lưu ý khi diễn giải kết quả.
+    \item \textbf{Xu hướng nghèo giảm khi GDP bình quân đầu người cao hơn:} Các điểm ở phía phải biểu đồ, đặc biệt từ khoảng 20K USD trở lên, tập trung sát đáy trục tung với tỷ lệ nghèo xấp xỉ 0--2\%. Điều này cho thấy trên hình có xu hướng tương quan nghịch giữa mức sống bình quân và tỷ lệ nghèo.
+    \item \textbf{Nhóm GDP thấp và trung bình phân tán mạnh hơn:} Ở vùng GDP khoảng 3K--10K USD, các điểm trải từ gần 0\% đến khoảng 10\% dân số nghèo. Như vậy, cùng một mức GDP bình quân đầu người, kết quả giảm nghèo vẫn có thể khác nhau đáng kể.
+    \item \textbf{Cần lưu ý dữ liệu thiếu trên hình:} Góc dưới bên phải biểu đồ hiển thị 151 nulls, cho thấy có nhiều bản ghi không đủ dữ liệu để vẽ. Vì vậy, scatter plot phù hợp để nhận xét xu hướng trên phần dữ liệu hiển thị, không nên diễn giải như toàn bộ bức tranh của mọi quốc gia.
 \end{itemize}
 
 % ======================================================================
@@ -119,9 +119,9 @@ Indicator & Quốc gia giữ & Quốc gia loại (rỗng) & Quốc gia loại (g
 
 \textbf{Nhận xét:}
 \begin{itemize}
-    \item \textbf{Sự phân cực Bắc--Nam rõ rệt:} Bản đồ phản ánh sự tập trung của cải ở bán cầu Bắc và các nước phương Tây. Các khu vực Bắc Mỹ (Hoa Kỳ, Canada), Tây Âu, Úc, New Zealand và một số nền kinh tế phát triển ở Đông Á (Nhật Bản, Hàn Quốc) hiển thị màu xanh đậm nhất, đại diện cho mức thu nhập rất cao ($> 40.000$ USD/người).
-    \item \textbf{Nhóm thu nhập thấp và trung bình:} Hầu hết các quốc gia ở Châu Phi cận Sahara, Nam Á và một phần Trung Á hiển thị màu nhạt, cho thấy mức GDP bình quân đầu người vẫn dưới ngưỡng 5.000 USD.
-    \item \textbf{Xử lý ngoại lai:} Thang màu được giới hạn ở mức 100.000 USD giúp bản đồ không bị chi phối bởi các quốc gia siêu giàu có dân số nhỏ (như Luxembourg hay Ireland), giữ được độ tương phản màu tốt cho phần còn lại của thế giới.
+    \item \textbf{Các vùng màu đậm tập trung ở nhóm phát triển:} Trên bản đồ, Bắc Mỹ, Tây Âu, Bắc Âu, Australia, New Zealand và một số nền kinh tế Đông Á hiển thị màu xanh đậm hơn rõ rệt. Đây là nhóm có GDP bình quân đầu người cao hơn trong so sánh không gian.
+    \item \textbf{Nhiều khu vực đang phát triển có màu nhạt hơn:} Phần lớn châu Phi, Nam Á và một số nước Đông Nam Á có màu nhạt hơn, thể hiện mức GDP bình quân đầu người thấp hơn tương đối so với các vùng phát triển.
+    \item \textbf{Bản đồ phù hợp để đọc mẫu hình không gian:} Vì hình không hiển thị nhãn số trên từng quốc gia, phần nhận xét chỉ tập trung vào độ đậm nhạt và cụm địa lý, tránh khẳng định chính xác mức USD của từng nước từ hình chụp.
 \end{itemize}
 
 \subsection{Thảo luận}
@@ -129,7 +129,7 @@ Indicator & Quốc gia giữ & Quốc gia loại (rỗng) & Quốc gia loại (g
 Tổng hợp bốn biểu đồ cho thấy phát triển kinh tế có sự phân hóa rõ theo cả thời gian, khu vực và không gian địa lý:
 \begin{itemize}
     \item \textbf{Động lực tăng trưởng phân hóa:} GDP bình quân đầu người tăng ở nhiều quốc gia, nhưng khoảng cách tuyệt đối giữa nhóm thu nhập cao và nhóm đang phát triển vẫn rất lớn. Tăng trưởng GDP năm 2023 cho thấy các khu vực đang phát triển tại châu Á (Đông Á, Nam Á) có tốc độ tăng trưởng nhanh hơn nhóm nước phát triển, tạo cơ hội thu hẹp khoảng cách.
-    \item \textbf{Tăng trưởng và phúc lợi xã hội:} GDP bình quân đầu người cao là nền tảng để triệt tiêu hoàn toàn tỷ lệ nghèo ($r \approx -0,62$). Tuy nhiên, đối với các quốc gia thu nhập thấp, sự phân tán rộng của tỷ lệ nghèo chỉ ra rằng phát triển kinh tế cần đi đôi với cải cách thể chế, chính sách phân phối tài nguyên xã hội và an sinh để mang lại phúc lợi bao trùm.
+    \item \textbf{Tăng trưởng và phúc lợi xã hội:} Scatter plot cho thấy các điểm có GDP bình quân đầu người cao thường nằm gần đáy trục tỷ lệ nghèo, trong khi nhóm GDP thấp và trung bình phân tán rộng hơn. Điều này gợi ý phát triển kinh tế là nền tảng quan trọng để giảm nghèo, nhưng chưa đủ để bảo đảm kết quả giảm nghèo đồng đều.
     \item \textbf{Hạn chế của dữ liệu kinh tế:} Mặc dù dữ liệu GDP có độ phủ rộng bậc nhất, các chỉ số về nghèo đói (\path{SI.POV.DDAY}) gặp hạn chế lớn về mặt tần suất đo lường và tính liên tục, tạo ra thiên lệch lớn về mặt địa lý. Các phân tích tương quan trong phần này cần được diễn giải một cách cẩn trọng dưới lăng kính mẫu thiên lệch này.
 \end{itemize}
 

diff --git a/report/sections/04_phan_tich_giao_duc.tex b/report/sections/04_phan_tich_giao_duc.tex
@@ -79,9 +79,9 @@ Indicator & Quốc gia giữ & Quốc gia loại (rỗng) & Quốc gia loại (g
 \textbf{Nhận xét:}
 \begin{itemize}
     \item \textbf{Hai đường tách biệt rõ ràng:} Trên hình, đường nhập học tiểu học luôn nằm phía trên đường nhập học trung học. Tỷ lệ tiểu học dao động quanh mức 86--91\%, trong khi trung học chủ yếu nằm quanh 68--78\%. Điều này cho thấy tiếp cận giáo dục tiểu học phổ biến hơn, còn giáo dục trung học vẫn là bậc học khó duy trì hơn.
-    \item \textbf{Cả hai bậc học đều có xu hướng đi lên trước năm 2018:} Đường tiểu học tăng nhẹ từ khoảng 86\% lên hơn 90\% vào năm 2017. Đường trung học tăng rõ hơn, từ khoảng 68\% lên gần 78\% vào năm 2017. Nhìn trực quan, tiến bộ ở bậc trung học nhanh hơn nhưng vẫn chưa bắt kịp bậc tiểu học.
+    \item \textbf{Cả hai bậc học đều có xu hướng đi lên:} Đường tiểu học tăng nhẹ từ khoảng 86\% lên hơn 90\% vào năm 2017. Đường trung học tăng rõ hơn, từ khoảng 68\% lên gần 78\% vào năm 2017. Nhìn trực quan, tiến bộ ở bậc trung học nhanh hơn nhưng vẫn chưa bắt kịp bậc tiểu học.
     \item \textbf{Khoảng cách có thu hẹp nhưng chưa biến mất:} Đầu giai đoạn, khoảng cách giữa hai đường vào khoảng gần 18 điểm phần trăm; đến năm 2017 khoảng cách còn xấp xỉ 12--13 điểm phần trăm. Hai đường không giao nhau, phản ánh thách thức trong việc giữ học sinh tiếp tục học sau bậc tiểu học.
-    \item \textbf{Điểm cuối năm 2018 cần đọc thận trọng:} Hình có thể hiện điểm giảm ở cuối chuỗi, đặc biệt đường trung học giảm về khoảng dưới 70\%. Tuy nhiên, điểm này trùng với giai đoạn dữ liệu bị thiếu nhiều hơn, nên không nên diễn giải là xu hướng suy giảm thực sự của giáo dục trung học. Các khác biệt theo khu vực được phân tích rõ hơn ở heatmap phía sau.
+    \item \textbf{Điểm cuối chuỗi cần đọc thận trọng:} Hình có thể hiện điểm giảm ở cuối chuỗi, đặc biệt đường trung học giảm về khoảng dưới 70\%. Tuy nhiên, điểm này trùng với giai đoạn dữ liệu bị thiếu nhiều hơn, nên không nên diễn giải là xu hướng suy giảm thực sự của giáo dục trung học. Các khác biệt theo khu vực được phân tích rõ hơn ở heatmap phía sau.
 \end{itemize}
 
 % ======================================================================
@@ -95,8 +95,8 @@ Indicator & Quốc gia giữ & Quốc gia loại (rỗng) & Quốc gia loại (g
 \textbf{Nhận xét:}
 \begin{itemize}
     \item \textbf{Thứ tự thanh thể hiện phân hóa rõ:} Các thanh được sắp xếp giảm dần từ trên xuống dưới, với giá trị hiển thị trực tiếp ở cuối thanh. Vì vậy, có thể thấy ngay khoảng chênh lệch giữa vùng cao nhất và thấp nhất là khoảng 1,26 điểm phần trăm GDP.
-    \item \textbf{Nhóm chi tiêu cao nằm ở phía trên:} \textbf{North America} đứng đầu với 4,933\% GDP, theo sau rất sát là \textbf{Europe \& Central Asia} với 4,851\% GDP. \textbf{Latin America \& Caribbean} cũng thuộc nhóm cao với 4,727\% GDP. Ba vùng này đều nằm gần mức 5\% GDP, cho thấy mức ưu tiên ngân sách giáo dục tương đối cao.
-    \item \textbf{Nhóm trung bình và thấp tách biệt rõ:} \textbf{Middle East \& North Africa} đạt 4,386\% GDP, thấp hơn nhóm dẫn đầu nhưng vẫn cao hơn đáng kể so với các vùng cuối bảng. \textbf{East Asia \& Pacific} đạt 3,921\%, còn \textbf{Sub-Saharan Africa} và \textbf{South Asia} lần lượt đạt 3,761\% và 3,675\%. Hai thanh cuối cho thấy mức chi tiêu giáo dục tương đối thấp nhất trong so sánh theo vùng.
+    \item \textbf{Nhóm chi tiêu cao nằm ở phía trên:} North America đứng đầu với 4,933\% GDP, theo sau rất sát là Europe \& Central Asia với 4,851\% GDP. Latin America \& Caribbean cũng thuộc nhóm cao với 4,727\% GDP. Ba vùng này đều nằm gần mức 5\% GDP, cho thấy mức ưu tiên ngân sách giáo dục tương đối cao.
+    \item \textbf{Nhóm trung bình và thấp tách biệt rõ:} Middle East \& North Africa đạt 4,386\% GDP, thấp hơn nhóm dẫn đầu nhưng vẫn cao hơn đáng kể so với các vùng cuối bảng. East Asia \& Pacific đạt 3,921\%, còn Sub-Saharan Africa và South Asia lần lượt đạt 3,761\% và 3,675\%. Hai thanh cuối cho thấy mức chi tiêu giáo dục tương đối thấp nhất trong so sánh theo vùng.
     \item Bộ lọc \textbf{Region} phù hợp với biểu đồ này vì đơn vị so sánh chính là vùng địa lý. Khi người dùng chọn hoặc bỏ chọn một vùng, biểu đồ chỉ thay đổi phạm vi so sánh mà không làm sai ý nghĩa tổng hợp của chỉ số.
 \end{itemize}
 
@@ -106,14 +106,14 @@ Indicator & Quốc gia giữ & Quốc gia loại (rỗng) & Quốc gia loại (g
 \textbf{Loại biểu đồ:} Biểu đồ phân tán (scatter plot).\\
 \textbf{Lý do chọn:} Scatter plot là loại biểu đồ tiêu chuẩn để khám phá mối quan hệ giữa hai biến định lượng liên tục. Trong trường hợp này, nhóm muốn kiểm tra giả thuyết: quốc gia có tỷ lệ biết chữ cao thì tỷ lệ nhập học trung học cũng cao, phản ánh tính nhất quán giữa ``kết quả tích lũy'' và ``tiếp cận hiện tại'' của hệ thống giáo dục.
 
-\reportfigure{images/education/education_literacy_enrollment_scatter.png}{Tương quan giữa tỷ lệ nhập học trung học đúng độ tuổi và tỷ lệ biết chữ người trưởng thành trong giai đoạn 2000--2018. Mỗi điểm đại diện cho một quốc gia có đủ dữ liệu cho cả hai chỉ số; màu sắc được dùng để phân biệt khu vực và kích thước điểm thể hiện mức chi tiêu giáo dục. Chỉ 18 quốc gia có đồng thời dữ liệu biết chữ và nhập học trung học đủ điều kiện, nên biểu đồ được dùng để nhận diện xu hướng tương quan, không dùng để kết luận đại diện toàn cầu.}{fig:edu-literacy-scatter}
+\reportfigure{images/education/education_literacy_enrollment_scatter.png}{Tương quan giữa tỷ lệ nhập học trung học đúng độ tuổi và tỷ lệ biết chữ người trưởng thành trong giai đoạn 2000--2018. Mỗi điểm đại diện cho một quốc gia trong phần dữ liệu được hiển thị; màu sắc được dùng để phân biệt khu vực và kích thước điểm thể hiện mức chi tiêu giáo dục.}{fig:edu-literacy-scatter}
 
 \textbf{Nhận xét:}
 \begin{itemize}
     \item \textbf{Đám điểm nghiêng theo hướng đi lên:} Phần lớn điểm nằm theo hướng từ góc dưới bên trái lên góc trên bên phải. Có thể ước lượng trực quan rằng các điểm có nhập học trung học trên 70\% thường đi kèm tỷ lệ biết chữ khoảng 85--100\%, cho thấy mối tương quan dương giữa hai chỉ số.
     \item \textbf{Cụm chính tập trung ở vùng giá trị cao:} Nhiều điểm nằm trong khoảng nhập học trung học 60--95\% và biết chữ 85--100\%. Đây là vùng tập trung lớn nhất trên hình, cho thấy trong mẫu có dữ liệu, nhiều quốc gia vừa duy trì được tiếp cận giáo dục trung học tương đối tốt vừa có nền tảng biết chữ cao.
     \item \textbf{Một vài điểm nằm tách xa cụm chính:} Một số điểm ở phía trái hoặc thấp hơn chỉ đạt khoảng 15--40\% nhập học trung học và khoảng 56--82\% biết chữ. Những điểm này cho thấy vẫn tồn tại nhóm quốc gia có kết quả giáo dục thấp hơn rõ rệt, làm nổi bật sự bất bình đẳng giữa các quốc gia/khu vực trong mẫu.
-    \item \textbf{Lưu ý quan trọng:} Biểu đồ chỉ gồm 18 quốc gia có đủ đồng thời dữ liệu biết chữ và nhập học trung học trong giai đoạn 2000--2018. Vì vậy, hình này phù hợp để nhận diện tương quan dương trong mẫu, nhưng không đủ để kết luận đại diện toàn cầu hoặc khẳng định quan hệ nhân quả.
+    \item \textbf{Lưu ý quan trọng:} Số điểm trên hình không quá nhiều và có một số điểm nằm tách xa cụm chính. Vì vậy, biểu đồ phù hợp để nhận diện xu hướng tương quan dương trong phần dữ liệu hiển thị, nhưng không đủ để kết luận đại diện toàn cầu hoặc khẳng định quan hệ nhân quả.
 \end{itemize}
 
 % ======================================================================
@@ -136,14 +136,14 @@ Indicator & Quốc gia giữ & Quốc gia loại (rỗng) & Quốc gia loại (g
 
 \subsection{Thảo luận}
 
-Tổng hợp bốn biểu đồ cho thấy bức tranh giáo dục toàn cầu trong giai đoạn 2000--2023 có tiến bộ đáng kể nhưng phân hóa rõ rệt theo khu vực:
+Tổng hợp bốn biểu đồ cho thấy bức tranh giáo dục toàn cầu có tiến bộ đáng kể nhưng phân hóa rõ rệt theo khu vực:
 
 \begin{itemize}
-    \item \textbf{Tiến bộ tổng thể:} Tỷ lệ nhập học bậc tiểu học tăng từ 86,3\% lên 90,7\% và bậc trung học tăng từ 68,0\% lên 78,0\% trong giai đoạn 2000--2017, cho thấy nỗ lực phổ cập giáo dục có kết quả trên quy mô toàn cầu.
+    \item \textbf{Tiến bộ tổng thể:} Biểu đồ đường cho thấy cả nhập học tiểu học và trung học đều tăng trước năm 2018. Tiểu học tăng nhẹ quanh vùng 86--91\%, còn trung học tăng rõ hơn từ khoảng dưới 70\% lên gần 80\%, dù vẫn thấp hơn bậc tiểu học trong toàn bộ giai đoạn.
 
-    \item \textbf{Khoảng cách khu vực vẫn rất lớn:} Sub-Saharan Africa tụt hậu ở cả bốn chỉ số --- tỷ lệ nhập học tiểu học thấp nhất ($\sim$81\%), nhập học trung học chỉ đạt $\sim$38\%, biết chữ $\sim$75\%, và chi tiêu giáo dục thấp ($\sim$3,7\% GDP). Đây là khu vực cần ưu tiên đầu tư nhất nếu mục tiêu là phát triển bao trùm.
+    \item \textbf{Khoảng cách khu vực vẫn rất lớn:} Heatmap cho thấy Europe \& Central Asia có màu đậm và ổn định hơn, trong khi Sub-Saharan Africa và South Asia nhạt hơn ở nhiều năm. Điều này cho thấy tiến bộ giáo dục không đồng đều giữa các khu vực.
 
-    \item \textbf{Mối liên hệ ``input--outcome'':} Các khu vực chi tiêu giáo dục cao hơn (North America, Europe) cũng có tỷ lệ nhập học và biết chữ cao hơn. Tương quan dương mạnh ($r \approx 0,83$) giữa biết chữ và nhập học trung học củng cố giả thuyết: đầu tư giáo dục dài hạn tạo ra nền tảng tri thức bền vững. Tuy nhiên, dữ liệu quan sát không cho phép kết luận nhân quả --- các yếu tố khác như thu nhập quốc dân, ổn định chính trị, và cấu trúc dân số cũng đóng vai trò quan trọng.
+    \item \textbf{Mối liên hệ ``input--outcome'':} Biểu đồ chi tiêu giáo dục cho thấy North America, Europe \& Central Asia và Latin America \& Caribbean nằm ở nhóm chi tiêu cao hơn. Scatter plot cũng cho thấy cụm điểm có nhập học trung học cao thường đi kèm tỷ lệ biết chữ cao. Tuy nhiên, đây chỉ là quan sát mô tả từ hình, không phải bằng chứng nhân quả.
 
     \item \textbf{Hạn chế dữ liệu đáng lưu ý:} Chỉ số giáo dục trong WDI có mức phủ thấp hơn đáng kể so với kinh tế và sức khỏe. Tỷ lệ biết chữ chỉ có 41/217 quốc gia (thiên lệch về nước đang phát triển). Dữ liệu nhập học mất liên tục sau 2017. Các kết luận trong phần này nên được đọc như xu hướng mô tả trên mẫu có sẵn, không phải kết luận đại diện toàn cầu.
 \end{itemize}